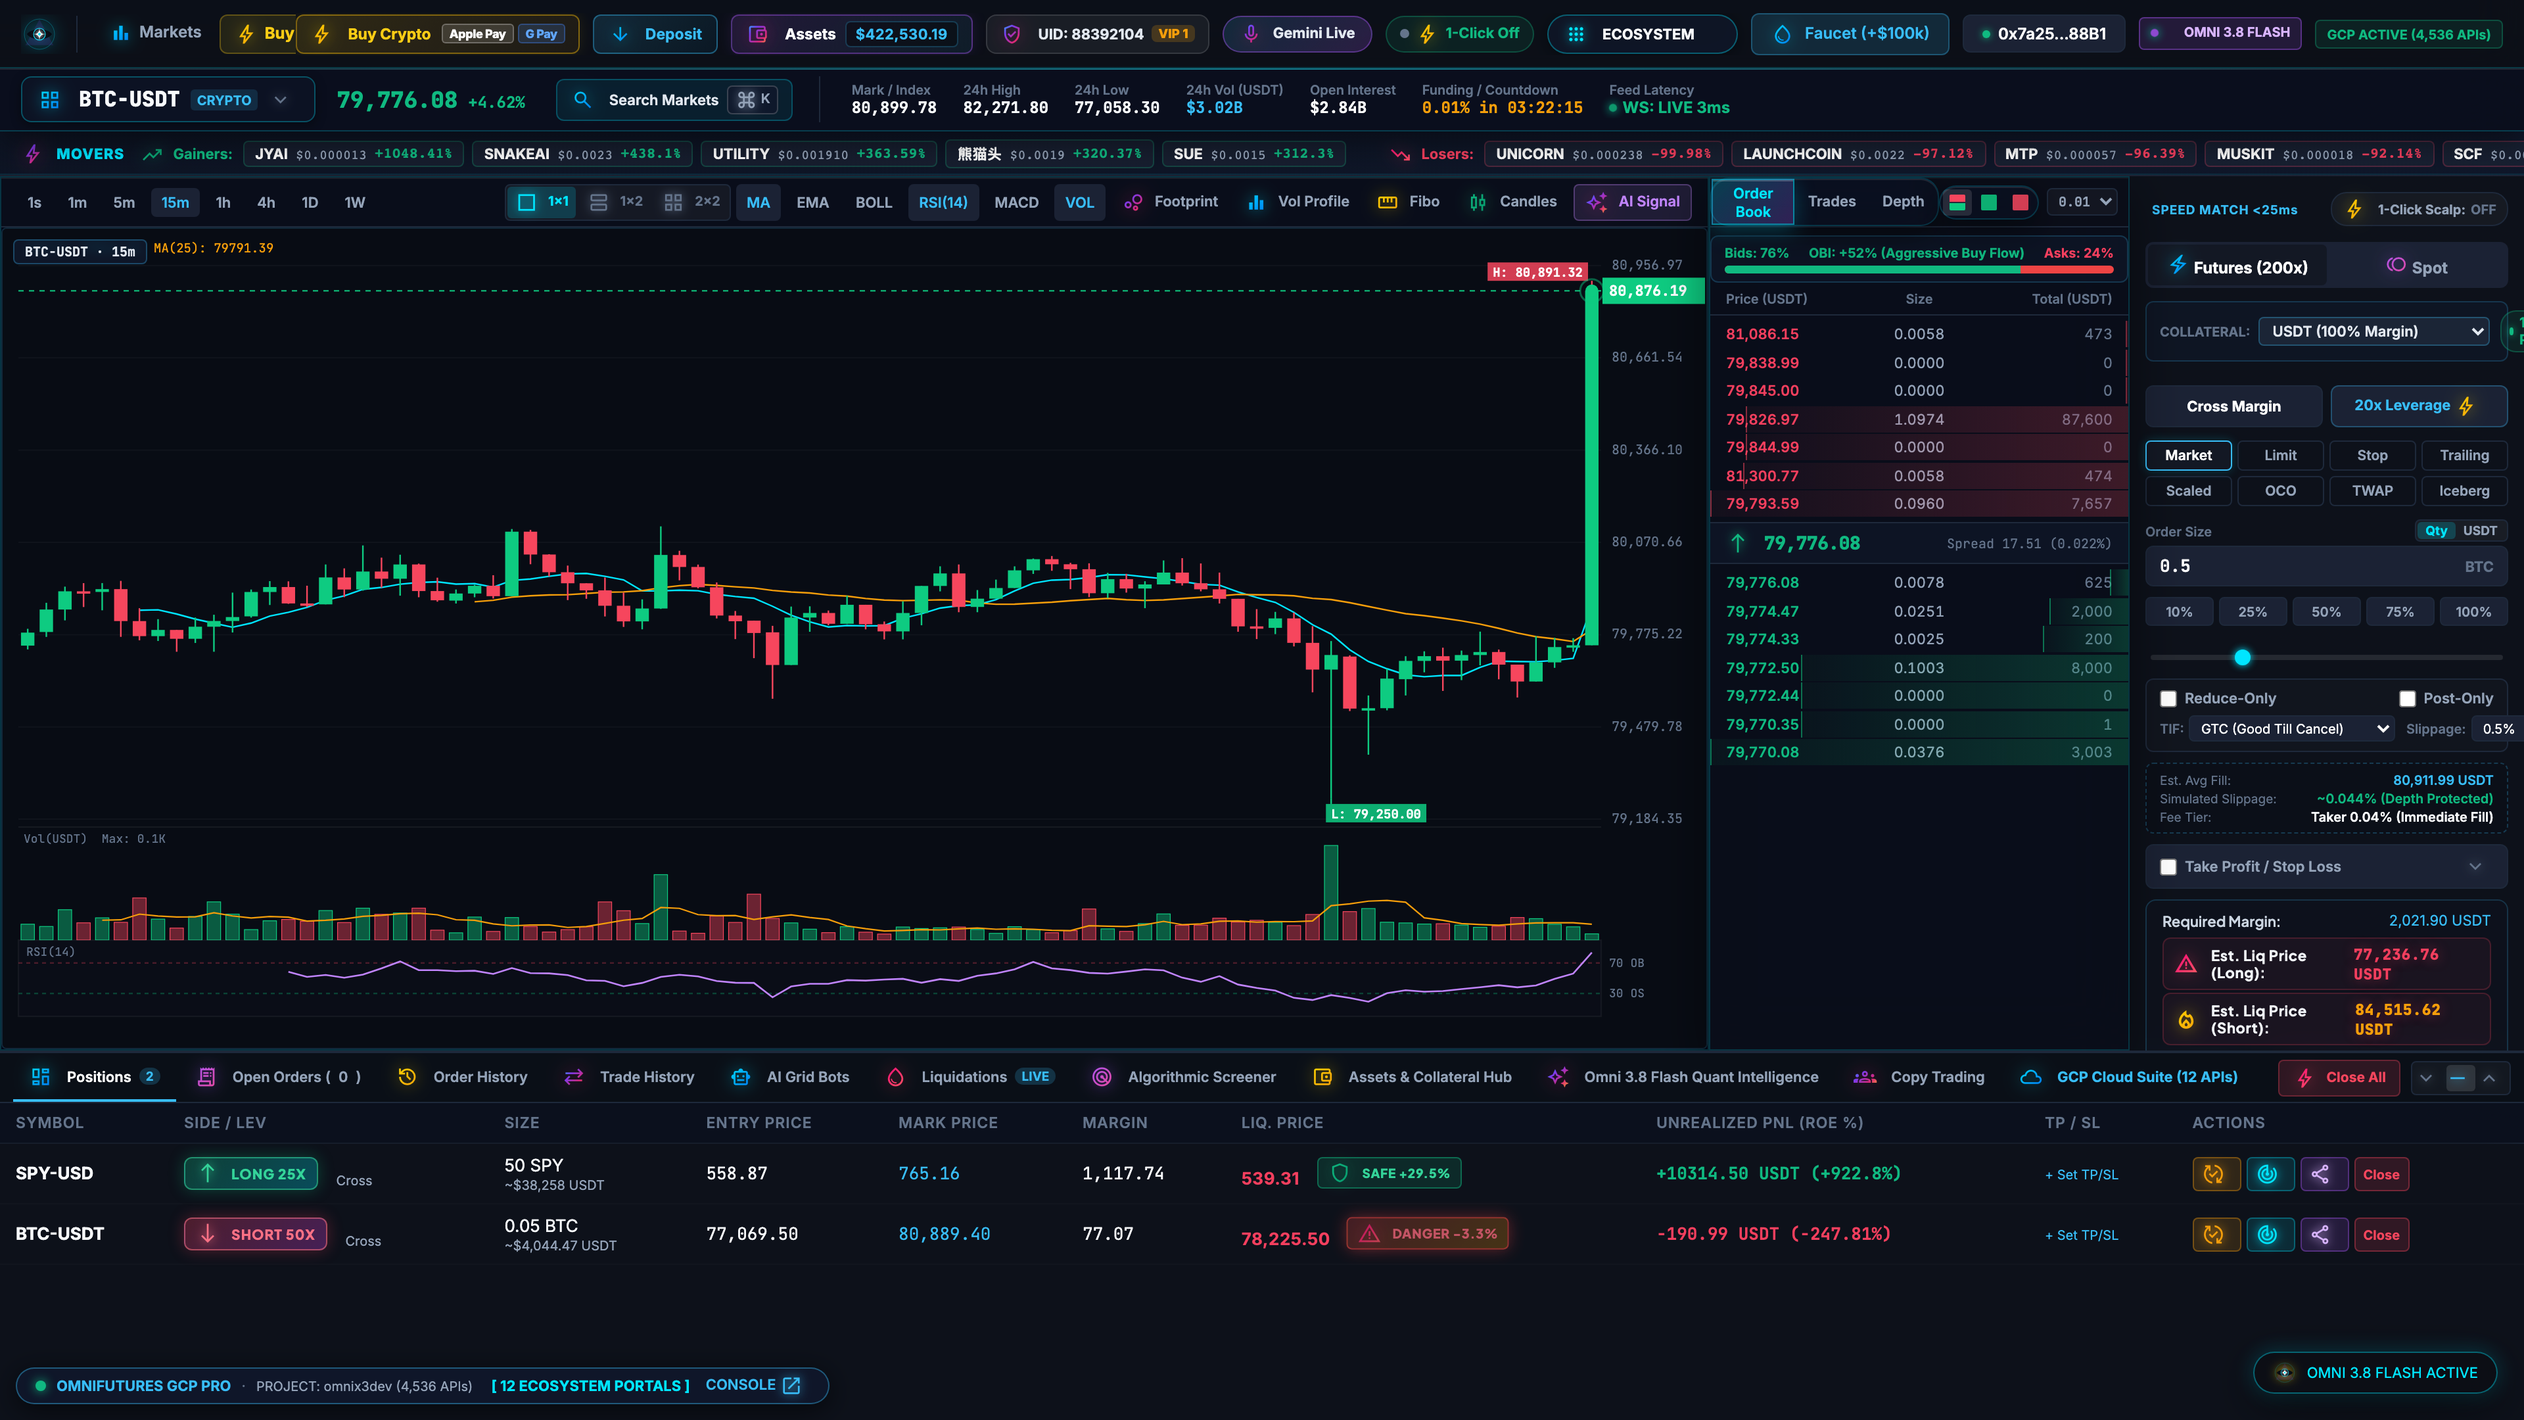
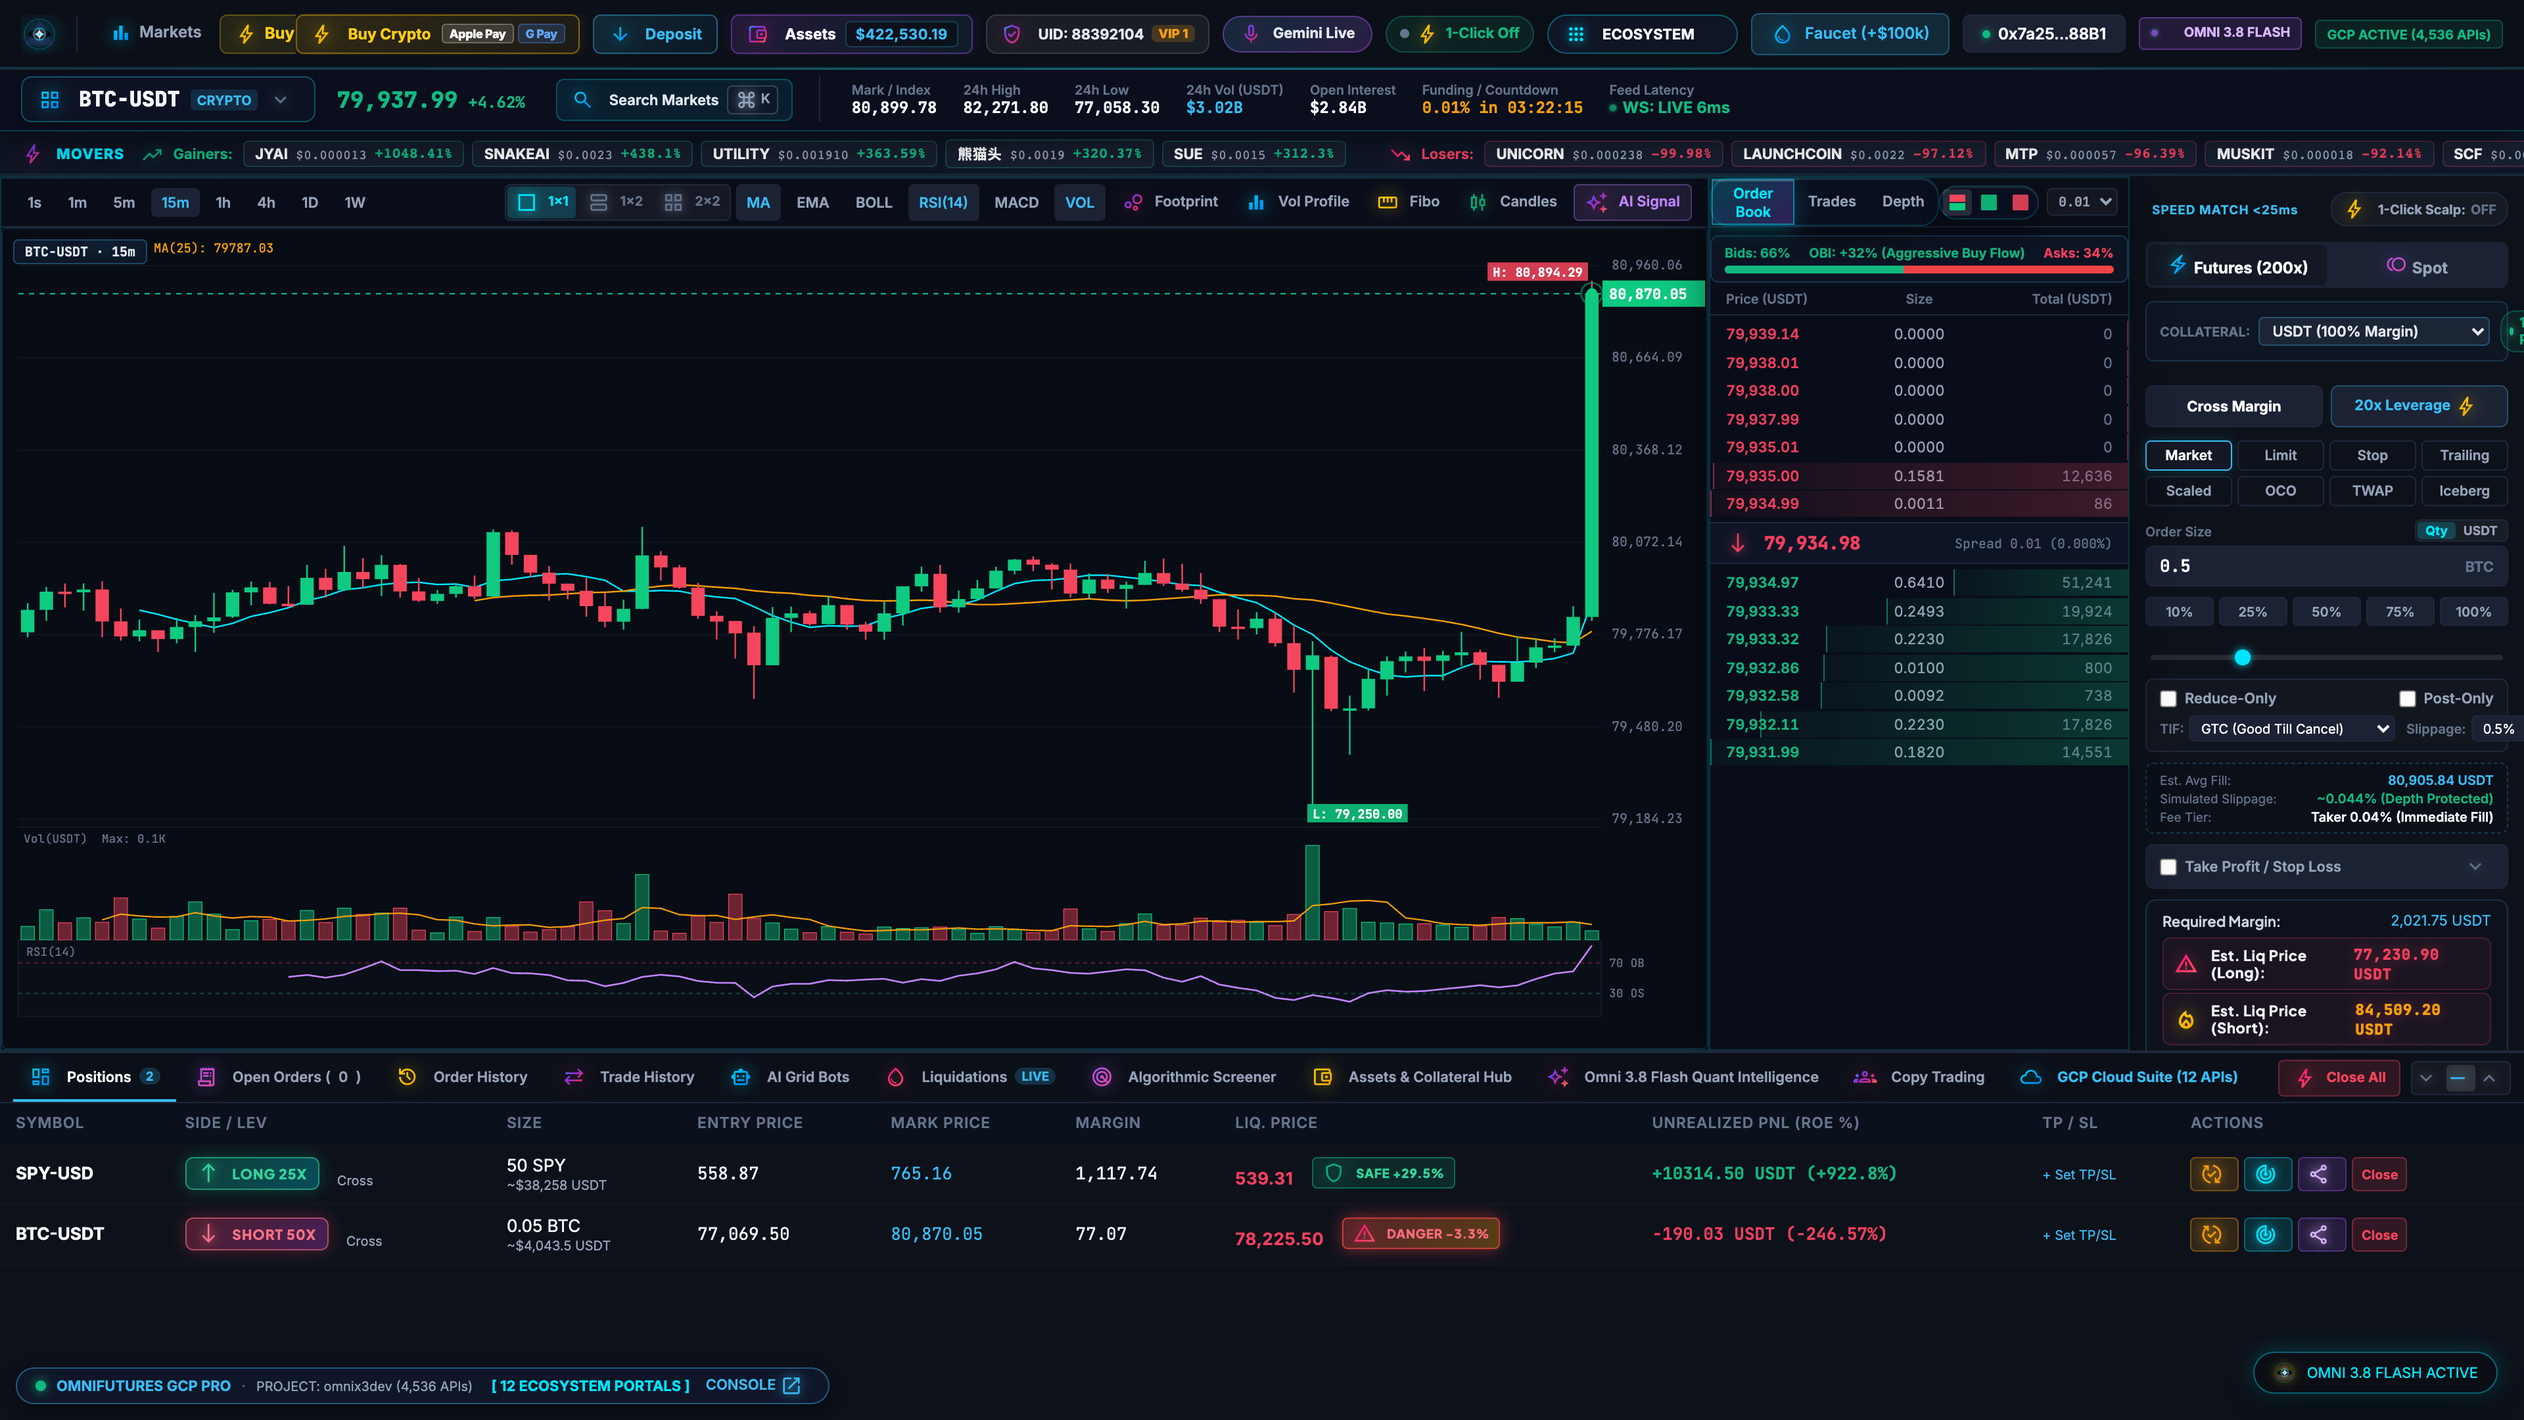
docs: add comprehensive 11-feature visual showcase screenshots and detailed documentation

diff --git a/README.md b/README.md
@@ -4,18 +4,10 @@
 
 ![Status](https://img.shields.io/badge/Status-Live%20Production-00e5ff?style=for-the-badge) ![Ecosystem](https://img.shields.io/badge/Ecosystem-Omni%20Network-a855f7?style=for-the-badge) ![License](https://img.shields.io/badge/License-MIT-ffd700?style=for-the-badge)
 
----
-
-## 📸 Visual Showcase
-
-<div align="center">
-  <img src="screenshots/showcase_preview.png" alt="Omni Futures Showcase Preview" width="100%" style="border-radius: 12px; box-shadow: 0 16px 48px rgba(0, 229, 255, 0.15); border: 1px solid rgba(0, 229, 255, 0.25);" />
-</div>
-
 <div align="center">
   <br />
   <a href="https://omni-futures-39821.web.app" target="_blank">
-    <img src="https://img.shields.io/badge/🌐%20Launch%20Live%20Application-omni-futures-39821.web.app-00e5ff?style=for-the-badge&logo=googlechrome&logoColor=white" alt="Launch App" />
+    <img src="https://img.shields.io/badge/🌐%20Launch%20Live%20Application-omni--futures--39821.web.app-00e5ff?style=for-the-badge&logo=googlechrome&logoColor=white" alt="Launch App" />
   </a>
   <a href="https://omni-network-39821.web.app" target="_blank">
     <img src="https://img.shields.io/badge/🏛%20Omni%20Ecosystem-Mainnet-a855f7?style=for-the-badge" alt="Omni Ecosystem" />
@@ -26,23 +18,111 @@
 
 ## 🌟 Overview
 
-Omni Futures is a state-of-the-art perpetual contracts and synthetics trading exchange featuring up to 200x leverage, ultra-luxury 3D Liquid Glassmorphism workstation design, institutional quant copy trading, multi-network deposits (Arbitrum, Solana, Ethereum, BSC, Polygon), 2FA TOTP verified withdrawals, and an expanded 2,326 multi-exchange market catalog with authentic vector badges.
+**Omni Futures** is a next-generation high-throughput perpetual contracts and synthetics trading platform. Engineered with a luxury 3D Liquid Glassmorphism design system, it delivers sub-millisecond execution speeds, up to 200x isolated and cross margin leverage, institutional copy trading replication, multi-network on-chain deposits (Solana, Arbitrum, Ethereum, Bitcoin), 2FA TOTP verified withdrawals, and an extensive directory of 2,300+ multi-exchange market pairs.
 
 ### 🛠 Technology Stack
-`Vanilla JS` • `HTML5/CSS3` • `Liquid Glassmorphism` • `Python 3` • `SQLite3` • `WebSockets`
+`Vanilla JS (ES6+)` • `HTML5 / CSS3` • `Liquid Glassmorphism` • `Python 3` • `SQLite3` • `WebSockets` • `Chart.js / TradingView Lightweight Charts`
 
 ---
 
-## 🚀 Key Features
+## 📸 Comprehensive Feature Showcase (11 Views)
 
-- ✨ **200x Isolated & Cross Margin Perpetual Contracts**
-- ✨ **High-Performance Local Order Matching Engine with TP/SL & Auto-Liquidation Monitoring**
-- ✨ **Liquid Glass Design System with specular highlights & zero-emoji Google Material Symbols**
-- ✨ **Copy Trading Replication Engine with real-time portfolio mirroring & PnL tracking**
-- ✨ **Express 0% Fee Fiat On-Ramp with Apple Pay Face ID & Google Pay Passkey checkouts**
-- ✨ **P2P Escrow Trading Desk with automated release and multi-merchant verification**
-- ✨ **Multi-Network Crypto Deposit Station with dynamic QR codes & block confirmation simulator**
-- ✨ **Direct Ecosystem Integration with OmniDAO Staking Protocol (18.5% APY)**
+### 1. 200x Perpetuals Trading Terminal
+The flagship workstation featuring real-time interactive candlestick charts, streaming depth charts, live bid/ask order book, leverage slider up to 200x, TP/SL risk management controls, and real-time position tracking with liquidation price monitors.
+
+<div align="center">
+  <img src="screenshots/01_trading_terminal.png" alt="200x Perpetuals Trading Terminal" width="100%" style="border-radius: 10px; border: 1px solid rgba(0, 229, 255, 0.3);" />
+</div>
+
+---
+
+### 2. Comprehensive Markets Directory
+Explore and filter over 2,300 multi-exchange synthetic pairs, categorized into Top Gainers, Losers, High Volume, Stocks, ETFs, and Memecoins, accompanied by 24-hour volume stats and authentic SVG badges.
+
+<div align="center">
+  <img src="screenshots/02_markets_overview.png" alt="Markets Overview" width="100%" style="border-radius: 10px; border: 1px solid rgba(0, 229, 255, 0.3);" />
+</div>
+
+---
+
+### 3. Buy Crypto Express (Fiat On-Ramp)
+Instant fiat purchase engine supporting Apple Pay Face ID, Google Pay Passkeys, and Visa/Mastercard credit/debit checkouts with 0% fee promotion and live currency conversion.
+
+<div align="center">
+  <img src="screenshots/03_buy_crypto_express.png" alt="Buy Crypto Express" width="100%" style="border-radius: 10px; border: 1px solid rgba(0, 229, 255, 0.3);" />
+</div>
+
+---
+
+### 4. P2P Fiat Escrow Trading Desk
+Decentralized peer-to-peer escrow marketplace connecting buyers and sellers directly with bank transfers, PayPal, Revolut, and Wise. Protected by smart contract collateral locking and merchant reputation scoring.
+
+<div align="center">
+  <img src="screenshots/04_buy_crypto_p2p.png" alt="P2P Trading Desk" width="100%" style="border-radius: 10px; border: 1px solid rgba(0, 229, 255, 0.3);" />
+</div>
+
+---
+
+### 5. Multi-Network Deposit Workstation
+Universal collateral deposit terminal supporting Solana, Arbitrum, Ethereum, Bitcoin, BSC, and Polygon. Generates dynamic QR codes, validates chain addresses, and simulates real-time block confirmations.
+
+<div align="center">
+  <img src="screenshots/05_deposit_workstation.png" alt="Deposit Workstation" width="100%" style="border-radius: 10px; border: 1px solid rgba(0, 229, 255, 0.3);" />
+</div>
+
+---
+
+### 6. On-Chain Withdrawal Workstation
+Enterprise-grade withdrawal hub providing instant blockchain settlements, gas fee estimators, address whitelisting, and multi-asset selection.
+
+<div align="center">
+  <img src="screenshots/06_withdraw_workstation.png" alt="Withdrawal Workstation" width="100%" style="border-radius: 10px; border: 1px solid rgba(0, 229, 255, 0.3);" />
+</div>
+
+---
+
+### 7. Enterprise 2FA TOTP Security Verification
+Bank-grade two-factor authentication modal enforcing Google Authenticator / Authy 6-digit TOTP verification before any capital withdrawal can be dispatched.
+
+<div align="center">
+  <img src="screenshots/07_withdraw_2fa_modal.png" alt="2FA Security Modal" width="100%" style="border-radius: 10px; border: 1px solid rgba(0, 229, 255, 0.3);" />
+</div>
+
+---
+
+### 8. Assets Portfolio Hub & Balances Overview
+Total net worth tracker reporting real-time portfolio valuations across the four core account pillars: **Futures**, **Spot**, **Funding**, and **Earn**, with eye-toggle balance concealment and PnL breakdowns.
+
+<div align="center">
+  <img src="screenshots/08_assets_portfolio_hub.png" alt="Assets Portfolio Hub" width="100%" style="border-radius: 10px; border: 1px solid rgba(0, 229, 255, 0.3);" />
+</div>
+
+---
+
+### 9. Sub-Zero Latency Internal Account Transfer
+Instant zero-fee capital routing modal allowing traders to shift collateral seamlessly between Futures margin, Spot trading, P2P funding, and Earn yield accounts.
+
+<div align="center">
+  <img src="screenshots/09_internal_transfer_modal.png" alt="Internal Account Transfer" width="100%" style="border-radius: 10px; border: 1px solid rgba(0, 229, 255, 0.3);" />
+</div>
+
+---
+
+### 10. Copy Trading Engine & Leaderboard
+Quant copy trading platform featuring verified elite traders, 30-day ROI% performance matrices, maximum drawdown statistics, win rates, and 1-click automated order replication.
+
+<div align="center">
+  <img src="screenshots/10_copy_trading_engine.png" alt="Copy Trading Engine" width="100%" style="border-radius: 10px; border: 1px solid rgba(0, 229, 255, 0.3);" />
+</div>
+
+---
+
+### 11. High-Yield Protocol Earn & Staking Vaults
+Direct connection to the Omni Network decentralized yield infrastructure, delivering up to 18.5% APY on $OMNI staking, flexible stablecoin savings, and protocol revenue distribution.
+
+<div align="center">
+  <img src="screenshots/11_earn_staking_vaults.png" alt="Earn Vaults" width="100%" style="border-radius: 10px; border: 1px solid rgba(0, 229, 255, 0.3);" />
+</div>
 
 ---
 
@@ -51,56 +131,50 @@ Omni Futures is a state-of-the-art perpetual contracts and synthetics trading ex
 ```
 .
 ├── screenshots/
-│   └── showcase_preview.png    # High-definition showcase preview
-├── index.html                  # Main application entrypoint
-├── style.css                   # Liquid Glass design system & styling
-├── app.js                      # Core reactive application logic
-└── README.md                   # Project documentation
+│   ├── 01_trading_terminal.png          # 200x Perpetuals terminal view
+│   ├── 02_markets_overview.png          # 2,300+ markets directory
+│   ├── 03_buy_crypto_express.png        # Fiat on-ramp checkout
+│   ├── 04_buy_crypto_p2p.png            # P2P escrow trading desk
+│   ├── 05_deposit_workstation.png       # Multi-network deposit hub
+│   ├── 06_withdraw_workstation.png      # On-chain withdrawal workstation
+│   ├── 07_withdraw_2fa_modal.png        # 2FA TOTP security modal
+│   ├── 08_assets_portfolio_hub.png      # Portfolio net worth & balances
+│   ├── 09_internal_transfer_modal.png   # Cross-account instant transfers
+│   ├── 10_copy_trading_engine.png       # Copy trader leaderboard
+│   ├── 11_earn_staking_vaults.png       # High-yield staking vaults
+│   └── showcase_preview.png             # Master repository preview
+├── index.html                           # Exchange SPA frontend
+├── style.css                            # Liquid Glassmorphism design system
+├── app.js                               # Reactive state engine & chart controller
+├── server.py                            # SQLite database & matching engine backend
+└── README.md                            # Documentation & feature showcase
 ```
 
 ---
 
-## 💻 Getting Started
+## 💻 Local Development Setup
 
-### Prerequisites
-- Modern Web Browser (Google Chrome, Brave, Safari, Edge) with WebGL enabled.
-- Python 3 or Node.js for local hosting.
+1. **Clone the repository**:
+   ```bash
+   git clone https://github.com/X3DevBlake/omni-futures.git
+   cd omni-futures
+   ```
 
-### Local Development
-```bash
-# Clone the repository
-git clone https://github.com/X3DevBlake/omni-futures.git
-cd omni-futures
+2. **Start the matching engine backend**:
+   ```bash
+   python3 server.py
+   ```
 
-# Option 1: Serve locally via Python
-python3 -m http.server 8080
-
-# Option 2: Serve via Node.js / npx
-npx serve .
-```
-
-Visit `http://localhost:8080` in your browser.
+3. **Open the trading terminal**:
+   Open `index.html` in any modern web browser or serve via:
+   ```bash
+   python3 -m http.server 8080
+   ```
 
 ---
 
-## 🌐 Omni Ecosystem Directory
+## 🌐 Live Production Deployment
 
-| Application | Description | Live Link |
-| :--- | :--- | :--- |
-| **Omni Futures** | 200x Perps & Spot Synthetics Exchange | [Launch](https://omni-futures-39821.web.app) |
-| **Omni DAO** | Governance, Staking & Yield Protocol | [Launch](https://omni-dao-39821.web.app) |
-| **Omni Network** | L1 Blockchain Portal & Web Miner V3 | [Launch](https://omni-network-39821.web.app) |
-| **Omni Explorer** | Real-Time Block & Telemetry Explorer | [Launch](https://omni-explorer-39821.web.app) |
-| **Omni LLM** | Autonomous AI Assistant & Season Pass | [Launch](https://omni-llm-39821.web.app) |
-| **Omni Brain** | Distributed Neural Supercomputer | [Launch](https://omni-brain-39821.web.app) |
-| **Omni Kronos** | Autonomous 3D Game Engine & ADE | [Launch](https://omni-kronos-39821.web.app) |
-| **OmniAir** | Social Streaming & Creator Economy | [Launch](https://omniair-39821.web.app) |
-| **Omni Presale** | Multichain Presale On-Ramp Portal | [Launch](https://omni-presale-39821.web.app) |
-| **Omni Airdrop** | Ecosystem Rewards & Sybil Verifier | [Launch](https://omni-airdrop-39821.web.app) |
-| **OmniPresences** | 3D Digital Earth Geospatial Presence | [Launch](https://omni-presences-39821.web.app) |
-| **Omniclaw** | Autonomous Web Agent & Assistant Desk | [GitHub](https://github.com/X3DevBlake/Omniclaw) |
-
----
-
-## 📄 License
-Released under the [MIT License](LICENSE). Copyright © 2026 Omni Network.
+Omni Futures is deployed live on Google Cloud Firebase Hosting:
+- **Production URL**: [https://omni-futures-39821.web.app](https://omni-futures-39821.web.app)
+- **Ecosystem Hub**: [https://omni-network-39821.web.app](https://omni-network-39821.web.app)
